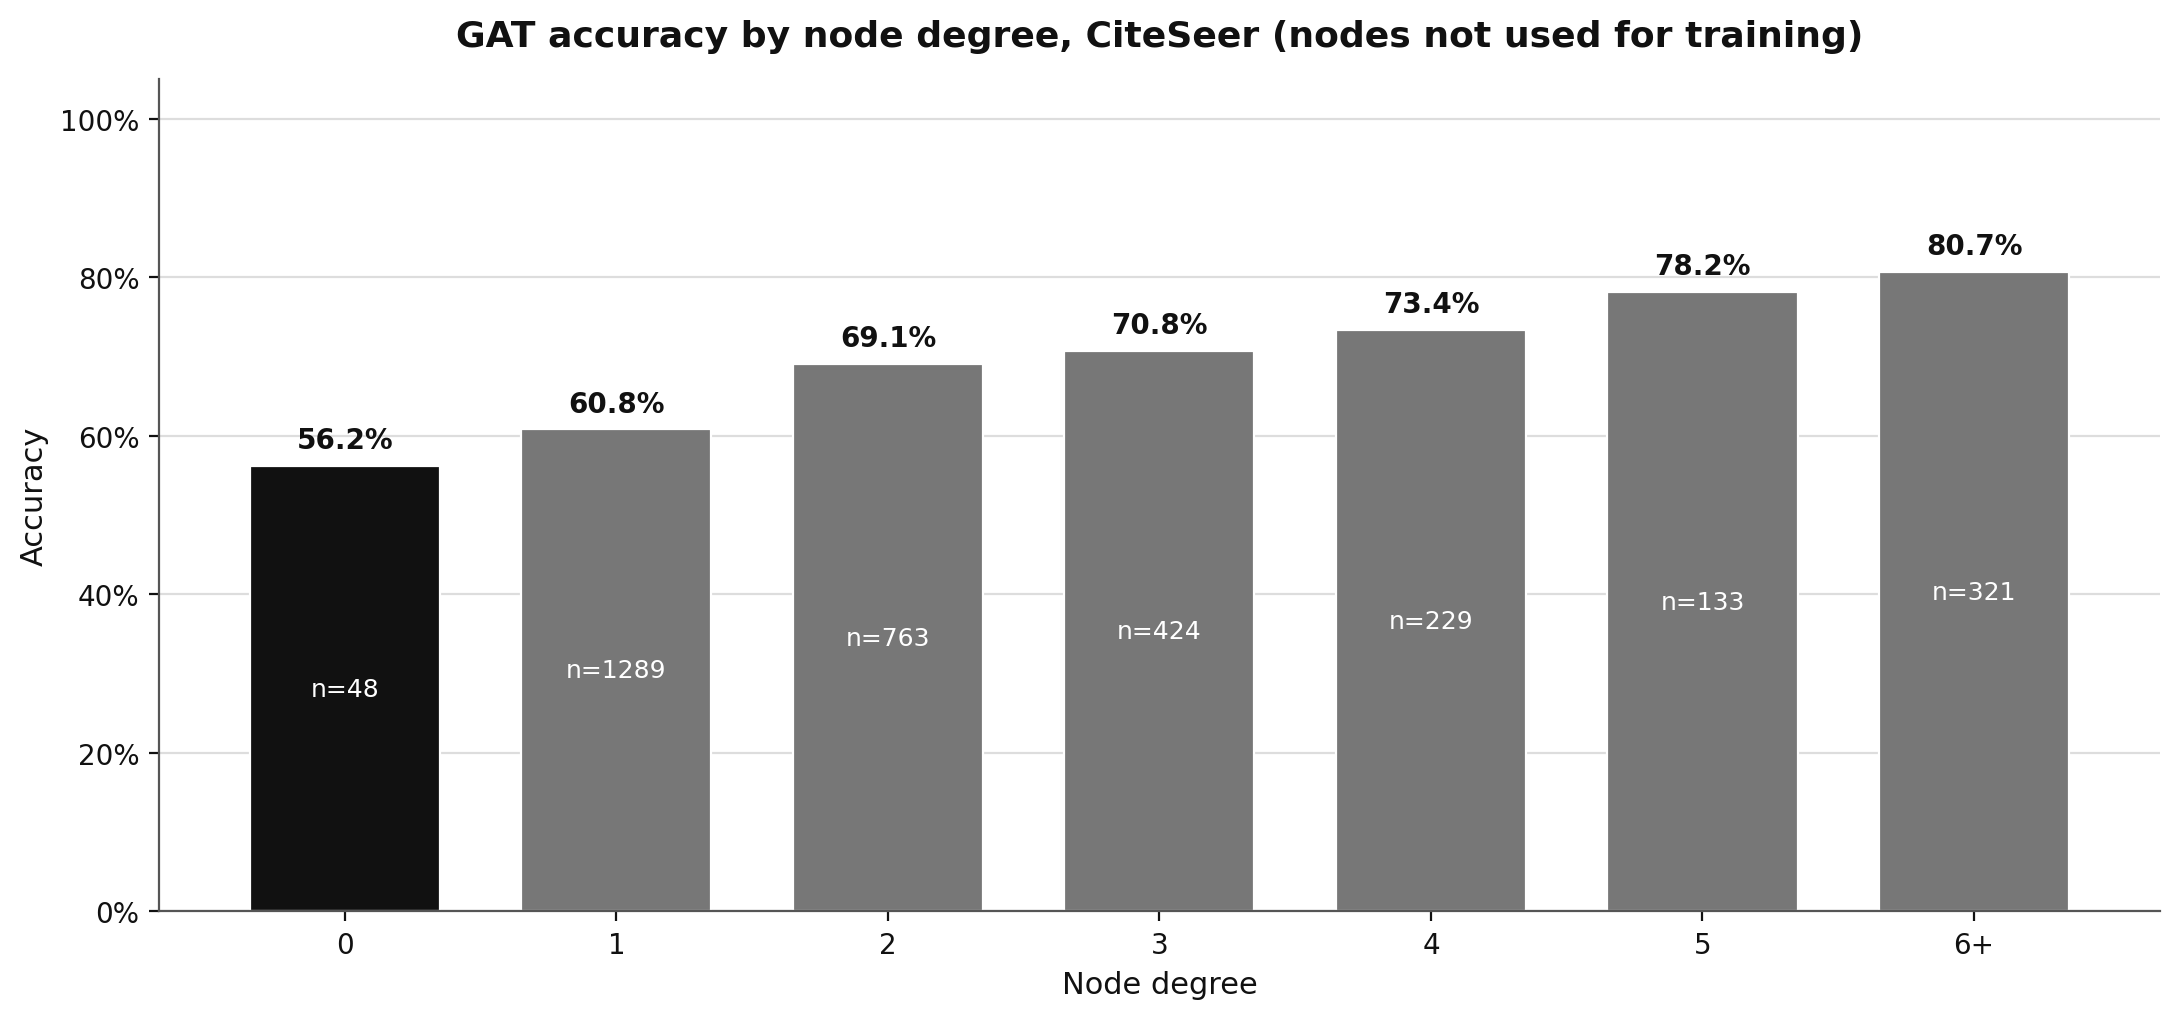
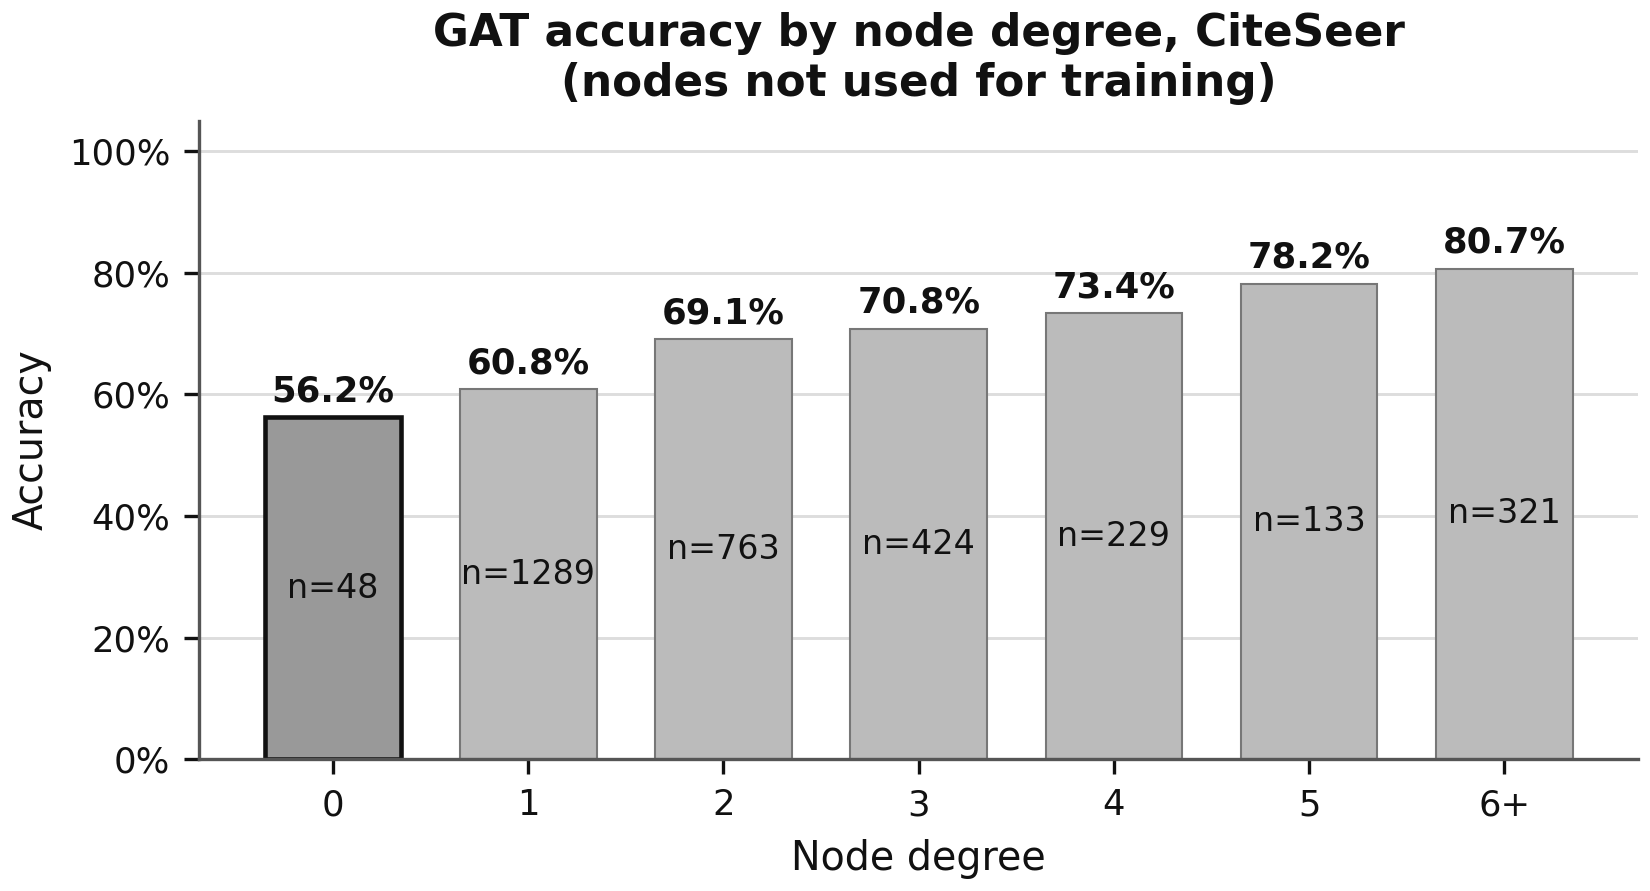
Redraw Chapter 7's three data figures at the printed width
Figures 7.4, 7.5 and 7.7 were rejected for readability: drawn 11 inches wide
and placed at 5.5, their 9 pt labels reached the page at about 4.5.

No re-run was needed. This chapter already separates the data from the
drawing — run.py leaves the counts in figures/citeseer_stats.json and the
figure script reads them — so the numbers are the verified ones, untouched.

Three things had to change beyond the width. The subgraph's legend moves
under the plot, where beside it would have taken a fifth of the 5.5 inches
the graph itself needs. The degree distribution sets its sixteen counts
upright, because four digits per bar do not fit across, and drops the leader
line that would otherwise cross every tall bar to reach degree 0; a dark edge
marks that bar instead. The accuracy chart fills its bars light and writes the
sample sizes in dark type, where white on a mid grey was 4.5:1.

Figures 7.1 and 7.2 are still missing: nothing in the repository draws them.

diff --git a/Chapter07/figures/generate_figures.py b/Chapter07/figures/generate_figures.py
@@ -18,29 +18,22 @@ citeseer_stats.json):
 
 import json
 import os
+import sys
 
-import matplotlib
-matplotlib.use("Agg")
-import matplotlib.pyplot as plt
 import numpy as np
 
+sys.path.insert(0, os.path.join(os.path.dirname(os.path.abspath(__file__)),
+                                '..', '..', 'tools'))
+from bookstyle import (apply, figure, save as save_fig, FONT, BG, INK,
+                       INK_SOFT, DPI, G0, G1, G2, G3, G4, G5, G6)
 
-# ── Style, matched to Chapter 6 ──────────────────────────────────────────────
-FONT = "DejaVu Sans"
-BG   = "white"
+plt = apply()
 
-# Grayscale palette G0..G6
-G0 = "#111111"   # near black (darkest, for isolated / problem bars)
-G1 = "#333333"
-G2 = "#555555"   # dark grey
-G3 = "#777777"   # mid grey (main bars)
-G4 = "#999999"   # lighter mid grey
-G5 = "#BBBBBB"   # light grey (grid / labels)
-G6 = "#DDDDDD"   # very light grey
-
-MAIN_BAR = G3    # regular bar fill
-ISO_BAR  = G0    # isolated-nodes bar (degree 0) — highlighted
-TEXT     = G0    # main text colour
+# Bars are filled light and labelled dark: the sample sizes are written inside
+# them, and white type on a mid grey is 4.5:1 before the press closes it up.
+MAIN_BAR = G5    # regular bar fill
+ISO_BAR  = G4    # isolated-nodes bar (degree 0), picked out by a dark edge
+TEXT     = INK   # main text colour
 GRID     = G6    # grid colour
 
 HERE = os.path.dirname(os.path.abspath(__file__))
@@ -95,30 +88,28 @@ def draw_citeseer_subgraph(G, labels, out_path: str) -> str:
     shades  = [G0, G1, G2, G3, G4, G5]
     markers = ["o", "s", "^", "D", "v", "P"]
 
-    fig, ax = plt.subplots(figsize=(11, 7), dpi=200)
-    fig.patch.set_facecolor(BG)
+    fig, ax = figure(aspect=0.80)
     ax.set_facecolor(BG)
-    nx.draw_networkx_edges(G, pos, ax=ax, edge_color=G4, width=0.9)
+    nx.draw_networkx_edges(G, pos, ax=ax, edge_color=G4, width=0.6)
     for c in range(6):
         idx = [n for n in G.nodes if labels[n] == c]
         nx.draw_networkx_nodes(G, pos, nodelist=idx, ax=ax,
                                node_color=shades[c], node_shape=markers[c],
-                               node_size=55, edgecolors="white",
-                               linewidths=0.6, label=CITESEER_CLASSES[c])
-    ax.legend(title="Category", loc="upper left", bbox_to_anchor=(1.0, 1.0),
-              frameon=False, prop={"family": FONT, "size": 10},
-              title_fontproperties={"family": FONT, "size": 10,
-                                    "weight": "bold"})
+                               node_size=26, edgecolors="white",
+                               linewidths=0.4, label=CITESEER_CLASSES[c])
+    # The legend goes under the plot: beside it, it would take a fifth of the
+    # 5.5 inches the graph itself needs.
+    ax.legend(loc="upper center", bbox_to_anchor=(0.5, 0.02), ncol=6,
+              frameon=False, handletextpad=0.2, columnspacing=0.9,
+              prop={"family": FONT, "size": 8.5})
     ax.set_title(f"CiteSeer: sampled subgraph ({G.number_of_nodes()} nodes, "
-                 f"{nx.number_connected_components(G)} connected components)",
-                 fontsize=13, fontweight="bold", color=TEXT,
-                 fontfamily=FONT, pad=12)
+                 f"{nx.number_connected_components(G)} components)",
+                 fontsize=10.5, fontweight="bold", color=TEXT,
+                 fontfamily=FONT)
     ax.set_aspect("equal")
     ax.axis("off")
 
-    plt.tight_layout()
-    plt.savefig(out_path, dpi=200, bbox_inches="tight", facecolor=BG)
-    plt.close(fig)
+    save_fig(fig, out_path)
     return out_path
 
 
@@ -159,49 +150,56 @@ def make_fig_07_05(stats: dict) -> str:
     labels = list(counts_by_bucket.keys())
     values = list(counts_by_bucket.values())
 
-    fig, ax = plt.subplots(figsize=(11, 4.6), dpi=200)
-    fig.patch.set_facecolor(BG)
+    fig, ax = figure(aspect=0.52)
     ax.set_facecolor(BG)
 
-    bar_colors = [ISO_BAR if lbl == "0" else MAIN_BAR for lbl in labels]
-    bars = ax.bar(labels, values, color=bar_colors, edgecolor="white",
-                  linewidth=0.8, width=0.75)
+    bars = ax.bar(labels, values, color=MAIN_BAR, edgecolor=G3,
+                  linewidth=0.5, width=0.78)
+    # The degree-0 bar is the point of the figure, so it carries a dark edge
+    # rather than a dark fill, which would swallow any label put on it.
+    for rect, lbl in zip(bars, labels):
+        if lbl == "0":
+            rect.set_facecolor(ISO_BAR)
+            rect.set_edgecolor(INK)
+            rect.set_linewidth(1.1)
 
-    # Value labels on top of each bar
+    # Sixteen counts of up to four digits do not fit side by side across 5.5
+    # inches, so they are set upright instead of across.
     y_max = max(values)
     for rect, v in zip(bars, values):
         ax.text(rect.get_x() + rect.get_width() / 2,
-                rect.get_height() + y_max * 0.015,
-                str(v), ha="center", va="bottom",
-                fontsize=9, color=TEXT, fontfamily=FONT)
+                rect.get_height() + y_max * 0.02,
+                str(v), ha="center", va="bottom", rotation=90,
+                fontsize=8, color=TEXT, fontfamily=FONT)
+    ax.set_ylim(0, y_max * 1.28)
 
-    ax.set_xlabel("Node degree", fontsize=11, color=TEXT, fontfamily=FONT)
-    ax.set_ylabel("Number of nodes", fontsize=11, color=TEXT, fontfamily=FONT)
+    ax.set_xlabel("Node degree", fontsize=9.5, color=TEXT, fontfamily=FONT)
+    ax.set_ylabel("Number of nodes", fontsize=9.5, color=TEXT, fontfamily=FONT)
     ax.set_title("CiteSeer node degree distribution",
-                 fontsize=13, fontweight="bold", color=TEXT,
-                 fontfamily=FONT, pad=12)
+                 fontsize=10.5, fontweight="bold", color=TEXT,
+                 fontfamily=FONT)
 
     # Note about the isolated bar
     iso = counts_by_bucket.get("0", 0)
     if iso > 0:
-        ax.annotate(f"{iso} isolated nodes\n(no neighbors to attend to)",
-                    xy=(0, iso), xytext=(1.6, y_max * 0.85),
-                    fontsize=9.5, color=TEXT, fontfamily=FONT,
-                    ha="left", va="top",
-                    arrowprops=dict(arrowstyle="->", color=G2, lw=1.0))
+        # No leader line: from the empty upper right it would have to cross
+        # every tall bar to reach degree 0. The dark edge marks that bar
+        # instead, and the note names it.
+        ax.text(5.6, y_max * 1.16,
+                f"Degree 0: {iso} isolated nodes,\nno neighbors to attend to",
+                fontsize=8.5, color=TEXT, fontfamily=FONT,
+                ha="left", va="top", linespacing=1.4)
 
     ax.spines[["top", "right"]].set_visible(False)
     ax.spines[["left", "bottom"]].set_color(G2)
-    ax.tick_params(axis="both", colors=TEXT, labelsize=10)
+    ax.tick_params(axis="both", colors=TEXT, labelsize=8.5)
     for lbl in ax.get_xticklabels() + ax.get_yticklabels():
         lbl.set_fontfamily(FONT)
-    ax.yaxis.grid(True, color=GRID, linewidth=0.8)
+    ax.yaxis.grid(True, color=GRID, linewidth=0.7)
     ax.set_axisbelow(True)
 
     out_path = os.path.join(HERE, "fig_07_05.png")
-    plt.tight_layout()
-    plt.savefig(out_path, dpi=200, bbox_inches="tight", facecolor=BG)
-    plt.close(fig)
+    save_fig(fig, out_path)
     return out_path
 
 
@@ -212,48 +210,51 @@ def make_fig_07_07(stats: dict) -> str:
     accuracies = pdb["accuracies"]
     sizes      = pdb["sizes"]
 
-    fig, ax = plt.subplots(figsize=(11, 5.2), dpi=200)
-    fig.patch.set_facecolor(BG)
+    fig, ax = figure(aspect=0.54)
     ax.set_facecolor(BG)
 
-    bar_colors = [ISO_BAR if lbl == "0" else MAIN_BAR for lbl in labels]
-    bars = ax.bar(labels, accuracies, color=bar_colors, edgecolor="white",
-                  linewidth=0.8, width=0.7)
+    bars = ax.bar(labels, accuracies, color=MAIN_BAR, edgecolor=G3,
+                  linewidth=0.5, width=0.7)
+    for rect, lbl in zip(bars, labels):
+        if lbl == "0":
+            rect.set_facecolor(ISO_BAR)
+            rect.set_edgecolor(INK)
+            rect.set_linewidth(1.1)
 
     for rect, acc, sz in zip(bars, accuracies, sizes):
         x = rect.get_x() + rect.get_width() / 2
         # Accuracy label above bar
         ax.text(x, rect.get_height() + 0.015,
                 f"{acc * 100:.1f}%", ha="center", va="bottom",
-                fontsize=10, color=TEXT, fontweight="bold", fontfamily=FONT)
-        # Sample-size label inside bar (only where it fits)
+                fontsize=8.5, color=TEXT, fontweight="bold", fontfamily=FONT)
+        # Sample size inside the bar, in dark type: the fill is light enough
+        # to carry it, which white on a mid grey was not.
         if rect.get_height() > 0.12:
             ax.text(x, rect.get_height() / 2, f"n={sz}",
                     ha="center", va="center",
-                    fontsize=9, color="white", fontfamily=FONT)
+                    fontsize=8, color=INK, fontfamily=FONT)
 
     ax.set_ylim(0, 1.05)
-    ax.set_xlabel("Node degree", fontsize=11, color=TEXT, fontfamily=FONT)
-    ax.set_ylabel("Accuracy", fontsize=11, color=TEXT, fontfamily=FONT)
-    ax.set_title("GAT accuracy by node degree, CiteSeer (nodes not used for training)",
-                 fontsize=13, fontweight="bold", color=TEXT,
-                 fontfamily=FONT, pad=12)
+    ax.set_xlabel("Node degree", fontsize=9.5, color=TEXT, fontfamily=FONT)
+    ax.set_ylabel("Accuracy", fontsize=9.5, color=TEXT, fontfamily=FONT)
+    ax.set_title("GAT accuracy by node degree, CiteSeer\n"
+                 "(nodes not used for training)",
+                 fontsize=10.5, fontweight="bold", color=TEXT,
+                 fontfamily=FONT)
 
     ax.spines[["top", "right"]].set_visible(False)
     ax.spines[["left", "bottom"]].set_color(G2)
-    ax.tick_params(axis="both", colors=TEXT, labelsize=10)
+    ax.tick_params(axis="both", colors=TEXT, labelsize=8.5)
     for lbl in ax.get_xticklabels() + ax.get_yticklabels():
         lbl.set_fontfamily(FONT)
-    ax.yaxis.grid(True, color=GRID, linewidth=0.8)
+    ax.yaxis.grid(True, color=GRID, linewidth=0.7)
     ax.set_axisbelow(True)
 
     from matplotlib.ticker import PercentFormatter
     ax.yaxis.set_major_formatter(PercentFormatter(xmax=1, decimals=0))
 
     out_path = os.path.join(HERE, "fig_07_07.png")
-    plt.tight_layout()
-    plt.savefig(out_path, dpi=200, bbox_inches="tight", facecolor=BG)
-    plt.close(fig)
+    save_fig(fig, out_path)
     return out_path
 
 
